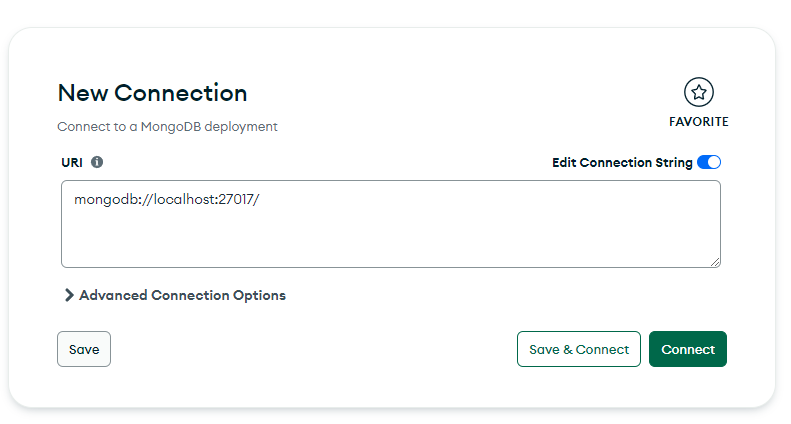
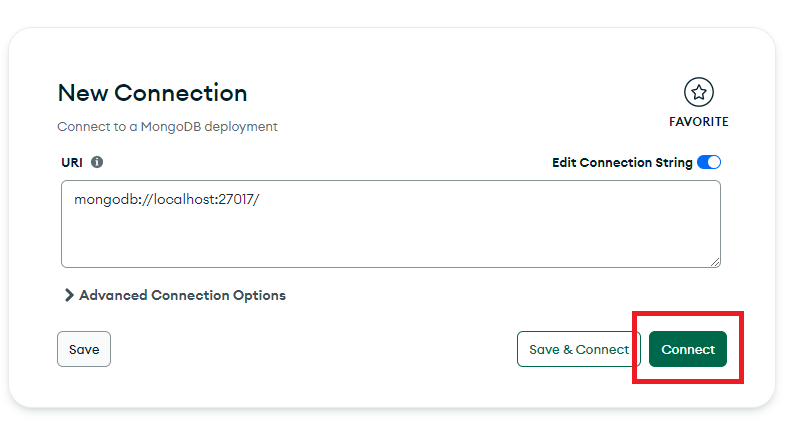
readme con información para configurar e iniciar el proyecto

Changed region(s): [[0.7889, 0.7358, 0.9406, 0.9198]]

diff --git a/README.md b/README.md
@@ -1,6 +1,82 @@
 # One Card
 
+One Card es un juego de cartas, desarrollado en NodeJS y ReactJS, con una base de datos Mongoose, de dos jugadores en línea inspirado en el universo de One Piece, donde dos jugadores compiten utilizando cartas de personajes, campos y cartas mágicas. 
+Cada jugador elige una tripulación, ya sea Sombrero de Paja o Marina, y luchará con su mazo, el cual incluye personajes icónicos, cartas de campo que incrementan su energía y cartas mágicas con diversas habilidades. 
+El objetivo es reducir los puntos de vida del oponente a cero mediante estrategias de ataque y defensa, utilizando las características y habilidades de cada carta. 
+
 ## Configuración del proyecto
+
+La configuración indicada a continuación únicamente será necesario realizarla una vez.
+
+### Configuración de la BBDD
 - Descargar e instalar [MongoDB](https://fastdl.mongodb.org/windows/mongodb-windows-x86_64-7.0.11-signed.msi)
 - Abrir MongoDB
-![](./doc/readme/mongodb1.PNG)
+- Conectar con la configuración por defecto
+  ![](./doc/readme/mongodb1.PNG)
+- En el menú lateral izquierdo, seleccionar el icono + (más) que se encuentra a la derecha de `Databases`
+  ![](./doc/readme/mongodb2.PNG)
+- Rellenar la información de la base de datos con los siguientes datos y hacer click en `Create Database`:
+  > Database Name: oneCard 
+  > Collection Name: cartas
+
+  :warning: **NOTA: Importante respetar mayúsculas y minúsculas**
+  ![](./doc/readme/mongodb3.PNG)
+
+- Dentro de la base de datos que acabamos de crear, hacemos click en el desplegable `ADD DATA` y seleccionamos la opción `Import JSON or CSV file`
+  ![](./doc/readme/mongodb4.PNG)
+
+- Se nos abrirá un cuadro para cargar un fichero JSON o CSV. Deberemos dirigirnos al directorio `./doc/BBDD` donde seleccionaremos el fichero `script cargar carts.json`, el cual contiene toda la información referente a las cartas para poder ejecutar el juego correctamente.
+  ![](./doc/readme/mongodb5.PNG)
+
+- Por último, importamos los datos que acabamos de seleccionar:
+  ![](./doc/readme/mongodb6.PNG)
+
+### Configuración del servidor
+Para un correcto funcionamiento de la aplicación deberán descargarse las dependencias necesarias.
+Para ello, desde la terminal, deberemos acceder al directorio `./backBBDD/` y ejecutar el siguiente comando:
+  > `npm install`
+
+### Configuración del cliente
+Para un correcto funcionamiento de la aplicación deberán descargarse las dependencias necesarias.
+Para ello, desde la terminal, deberemos acceder al directorio `./front/` y ejecutar el siguiente comando:
+  > `npm install`
+
+
+## Arranque del proyecto
+### Arranque de la BBDD
+En lo referente a la base de datos, únicamente deberemos asegurarnos de tenerla conectada con la configuración por defecto:
+- Abrir MongoDB
+- Conectar con la configuración por defecto
+  ![](./doc/readme/mongodb1.PNG)
+
+  
+### Arranque del servidor
+Para arrancar el servidor de nuestra aplicación deberemos de, desde la terminal, acceder al directorio `./backBBDD/` y ejecutar el siguiente comando:
+  > `npm run start`
+
+### Arranque del cliente
+Para arrancar el cliente de nuestra aplicación deberemos de, desde una terminal diferente a la anterior, acceder al directorio `./front/` y ejecutar el siguiente comando:
+  > `npm run start`
+
+
+## Funcionamiento de la aplicación
+Esta aplicación está preparada para que dos jugadores puedan jugar simultaneamente en el mismo equipo, por lo que necesitaremos abrir dos instancias de la aplicación en ventanas/pestañas diferentes.
+Abriremos dos ventanas/pestañas en nuestro navegador favorito y abriremos la siguiente url:
+> `http://localhost:5173/`
+
+Si el juego se encuentra configurado y arrancado correctamente, deberemos visualizar la pantalla de inicio en cada una de las instancias abiertas:
+  ![](./doc/readme/pantalla-inicio.PNG)
+
+NOTA: A partir de ahora nos referiremos a cada pantalla/pestaña abierta como un jugador.
+
+En esta pantalla, cada jugador podrá acceder a una pantalla de información general del juego, con el icono de info que encuentra arriba a la izquierda:
+  ![](./doc/readme/info.PNG)
+
+Para iniciar la partida deberán, ambos jugadores, de seleccionar la tripulación con la que desean jugar (pudiendo tener ambos la misma).
+  ![](./doc/readme/tripulaciones.PNG)
+
+Una vez seleccionada la tripulación, en caso de haberla seleccionado solamente uno de los jugadores, permacerá en la pantalla de juego sin que el tablero haya cargado, esperando a que el segundo jugador elija su tripulación:
+  ![](./doc/readme/pantalla-espera.PNG)
+
+Con los dos jugadores habiendo elegido tripulación, la partida puede comenzar y se cargará en ambas pantallas la información de las cartas que cada jugador tiene en la mano así como el botón de `Robar carta` en el caso del jugador que tenga el primer turno y demás información necesaria para llevar a cabo el juego:
+  ![](./doc/readme/pantalla-juego.PNG)
